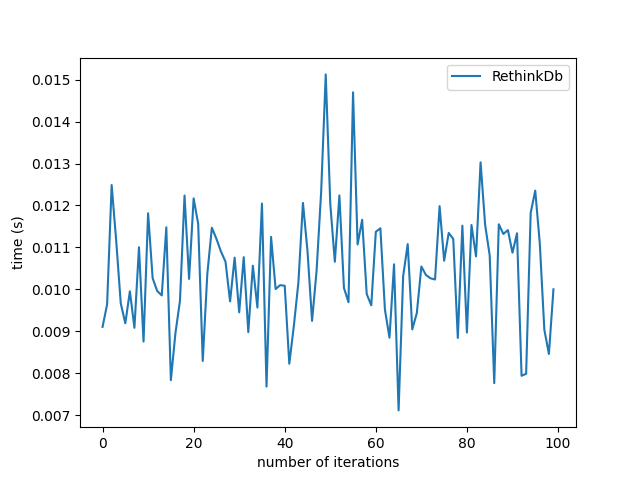
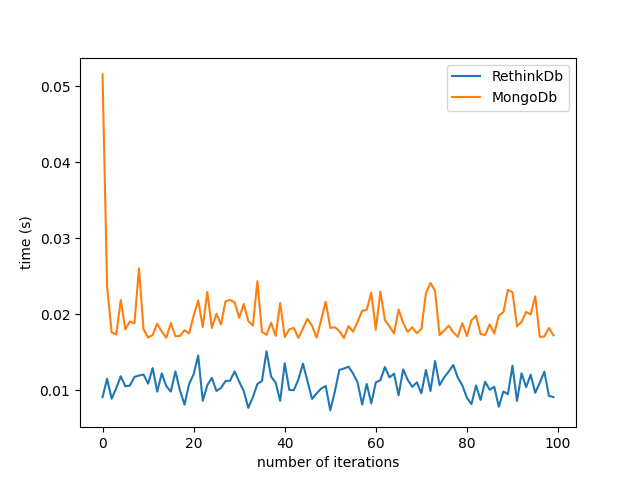
add mongo join tables and sorting tests

diff --git a/efficiency-tests/mongodb_test.py b/efficiency-tests/mongodb_test.py
@@ -1,5 +1,6 @@
-from pymongo import MongoClient
+from pymongo import MongoClient, ASCENDING
 import time
+import random
 
 
 class MongoTest:
@@ -30,6 +31,65 @@ class MongoTest:
             self.db.read_write.insert_one({'id': idx, 'time': time.time() - start})
             self.db.read_write.find()
             idx += 1
+
+        print('test finished')
+
+    def test_sorting_efficiency(self, inserts_num: int):
+        idx = 0
+        mod = inserts_num / min(100, inserts_num)
+
+        self.db.source.drop()
+
+        print('test started')
+
+        while idx < inserts_num:
+            self.db.source.insert_one({'value': idx})
+            if idx % mod == 0:
+                start = time.time()
+                for row in self.db.source.find().sort('value', ASCENDING):
+                    print(row, end=', ')
+                end = time.time()
+                print()
+                self.db.sorting.insert_one({'id': idx, 'time': end - start})
+            idx += 1
+
+        print('test finished')
+
+    def test_join_table_efficiency(self, inserts_num: int):
+
+        self.db.join_table_first.drop()
+        self.db.join_table_second.drop()
+
+        print('test started')
+
+        idx = 0
+        current_iteration = 0
+
+        while current_iteration < inserts_num:
+
+            current_iteration += 1
+
+            fst_idx = idx
+            while fst_idx < current_iteration * inserts_num:
+                self.db.join_table_first.insert_one({'id': fst_idx, 'a': f'a_value_{fst_idx}'})
+                fst_idx += 1
+            snd_idx = idx
+            while snd_idx < current_iteration * inserts_num:
+                self.db.join_table_second.insert_one({'id': snd_idx, 'b': f'b_value_{snd_idx}'})
+                snd_idx += 1
+            idx += current_iteration * inserts_num
+
+            start = time.time()
+            self.db.join_table_first.aggregate([{
+                '$lookup': {
+                    'from': 'join_table_second',
+                    'localField': 'id',
+                    'foreignField': 'id',
+                    'as': 'joined'
+                }
+            }])
+            end = time.time()
+            self.db.join_table.insert_one({'id': current_iteration, 'time': end - start})
 
         print('test finished')
 
